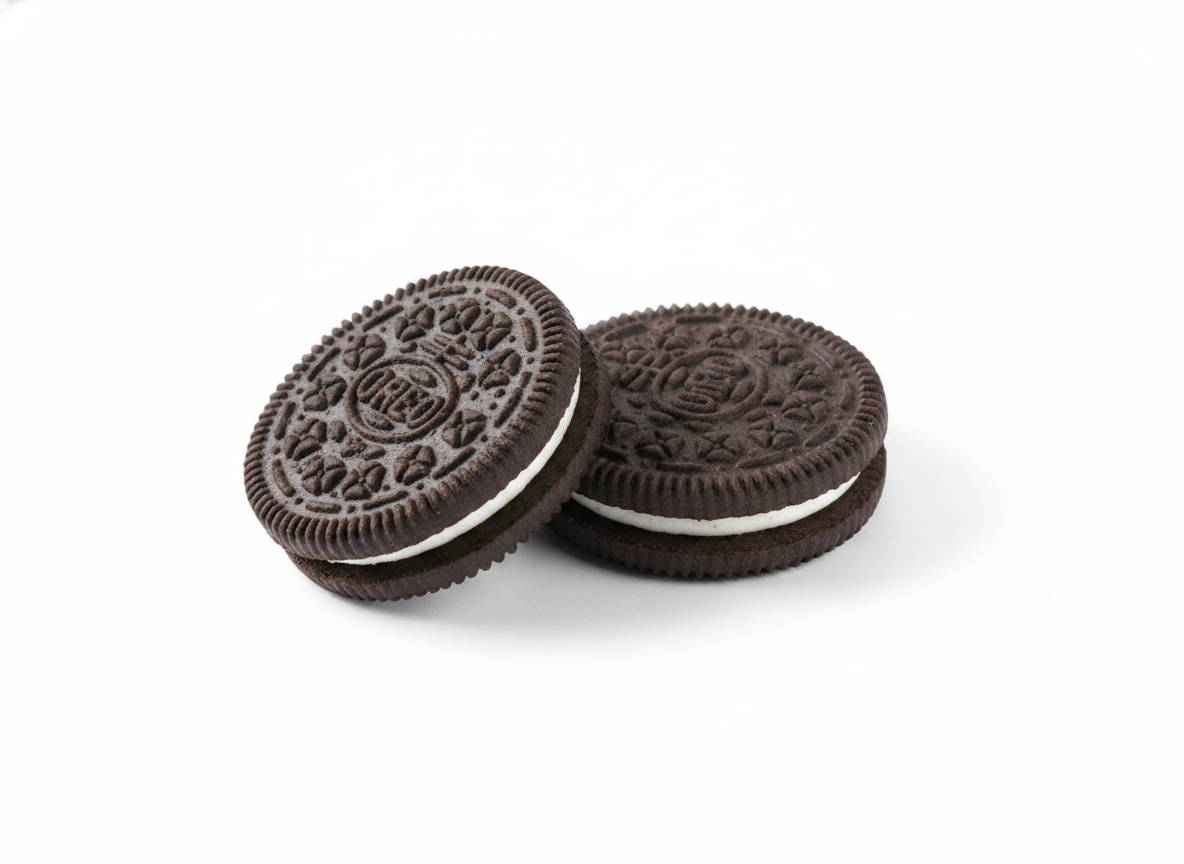
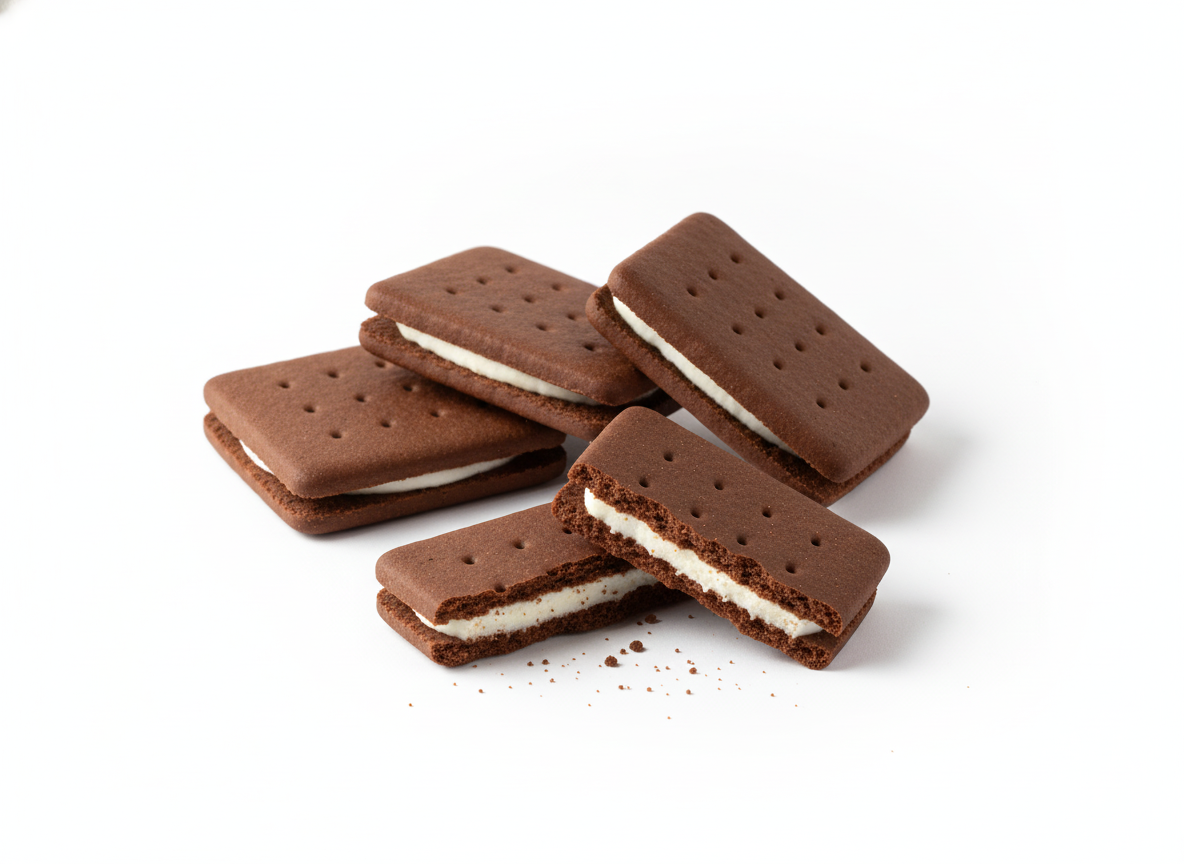
Cookies & Cream: replace the Oreo-like biscuit prop with an original one
The old prop was restaged from an Oreo photo and came out with Oreo's
embossed pattern and centre emblem; the listing drew a marketplace
penalty. The new biscuit is generated from a blank white canvas with no
reference at all (FREE_PROPS) and is designed away from that trade
dress: square with rounded corners, cocoa brown rather than black, plain
surface with pin-prick docking holes, no embossing, emblem or lettering.
The two Cookies & Cream mockups are now kept in prod-new/ as well.

Claude-Session: https://claude.ai/code/session_01A4GLsk6vKeeUp3C5p2a7yr

Changed region(s): [[0.1562, 0.25, 0.8438, 0.7812], [0.0, 0.0, 0.0312, 0.0312]]

diff --git a/nomukita-carousel/batch.py b/nomukita-carousel/batch.py
@@ -72,11 +72,26 @@ DRINKS = {
 
 # slug -> (reference, what to build from it). Shared props are generated once.
 PROPS = {
-    "cookiescream": ("Cookies & Cream_referensi.webp",
-                     "exactly two round chocolate sandwich biscuits with a white cream "
-                     "filling, one lying flat and the second leaning against it, arranged "
-                     "the same way as the reference. Plain embossed pattern on the biscuit, "
-                     "no brand name and no lettering of any kind"),
+    # Biskuit rancangan sendiri, BUKAN dari acuan. Acuan lamanya foto Oreo dan
+    # propnya keluar sebagai Oreo lengkap dengan pola timbul dan emblemnya;
+    # pelanggan kena penalti marketplace karenanya. Bentuk, warna dan permukaannya
+    # sengaja dijauhkan dari tampilan dagang Oreo: persegi, cokelat kakao susu,
+    # polos berlubang tusuk, tanpa pola timbul atau tulisan apa pun.
+    "cookiescream": ("blank_white.png",
+                     "two original square cocoa sandwich biscuits of our own design, about "
+                     "5 cm across with softly rounded corners. Each biscuit is two thin, "
+                     "flat, smooth CHOCOLATE wafers baked with cocoa: a rich deep cocoa "
+                     "brown like a brownie, clearly a chocolate biscuit - not tan, not "
+                     "beige, not graham-cracker coloured, and not black - "
+                     "with a neat grid of small pin-prick docking holes and a plain straight "
+                     "edge, sandwiching a thick layer of white vanilla cream that shows "
+                     "clearly between them. One biscuit lies flat; the second leans against "
+                     "it at an angle; a third biscuit is broken in half in front, showing "
+                     "the crumbly cocoa crumb and the cream, with a few small crumbs beside "
+                     "it. The surfaces are completely plain apart from the pin-prick holes: "
+                     "NO embossed pattern, NO flowers, NO rings of ridges, NO emblem, NO "
+                     "round biscuits, NO scalloped or ridged edge, NO brand name, NO "
+                     "lettering of any kind"),
     # Sent through strip_watermark first - see there for why.
     "blacktea": ("Black tea_refrensi.jpg",
                  "a low loose heap of dried curled tea leaves with one small fresh green tea "
@@ -559,6 +574,19 @@ FLUTED_GLASS = (
 GLASS_STYLE = {"taro": FLUTED_GLASS}
 
 
+# Prop yang dibuat dari kanvas putih kosong, bukan dipentaskan ulang dari foto.
+FREE_PROP_PROMPT = (
+    "This image is only a blank white studio canvas. Create on it a new calm studio "
+    "product photograph of {desc}. "
+    "Natural matte colour, no rim light, no glowing outline, no harsh specular highlight. "
+    "Seamless pure white background with no horizon line and no table edge, soft diffused "
+    "studio light from the upper left, one soft contact shadow directly beneath. Real "
+    "camera photograph, eye level slightly from above, sharp focus, no text, no lettering, "
+    "no brand name, no logo, no watermark, no other props."
+)
+FREE_PROPS = {"cookiescream"}
+
+
 def main(only=None):
     os.makedirs(OUT, exist_ok=True)
     cache = {}
@@ -596,7 +624,8 @@ def main(only=None):
             ref = strip_watermark(ref, WATERMARKED[name])
         if name in CHECKERED:
             ref = flatten_checker(*CHECKERED[name])
-        run(PROP_PROMPT.format(desc=desc), [link(ref)], "4:3", out)
+        tpl = FREE_PROP_PROMPT if name in FREE_PROPS else PROP_PROMPT
+        run(tpl.format(desc=desc), [link(ref)], "4:3", out)
 
     if SPENT:
         print(f"\n{len(SPENT)} images, {sum(SPENT)} credits this run")
